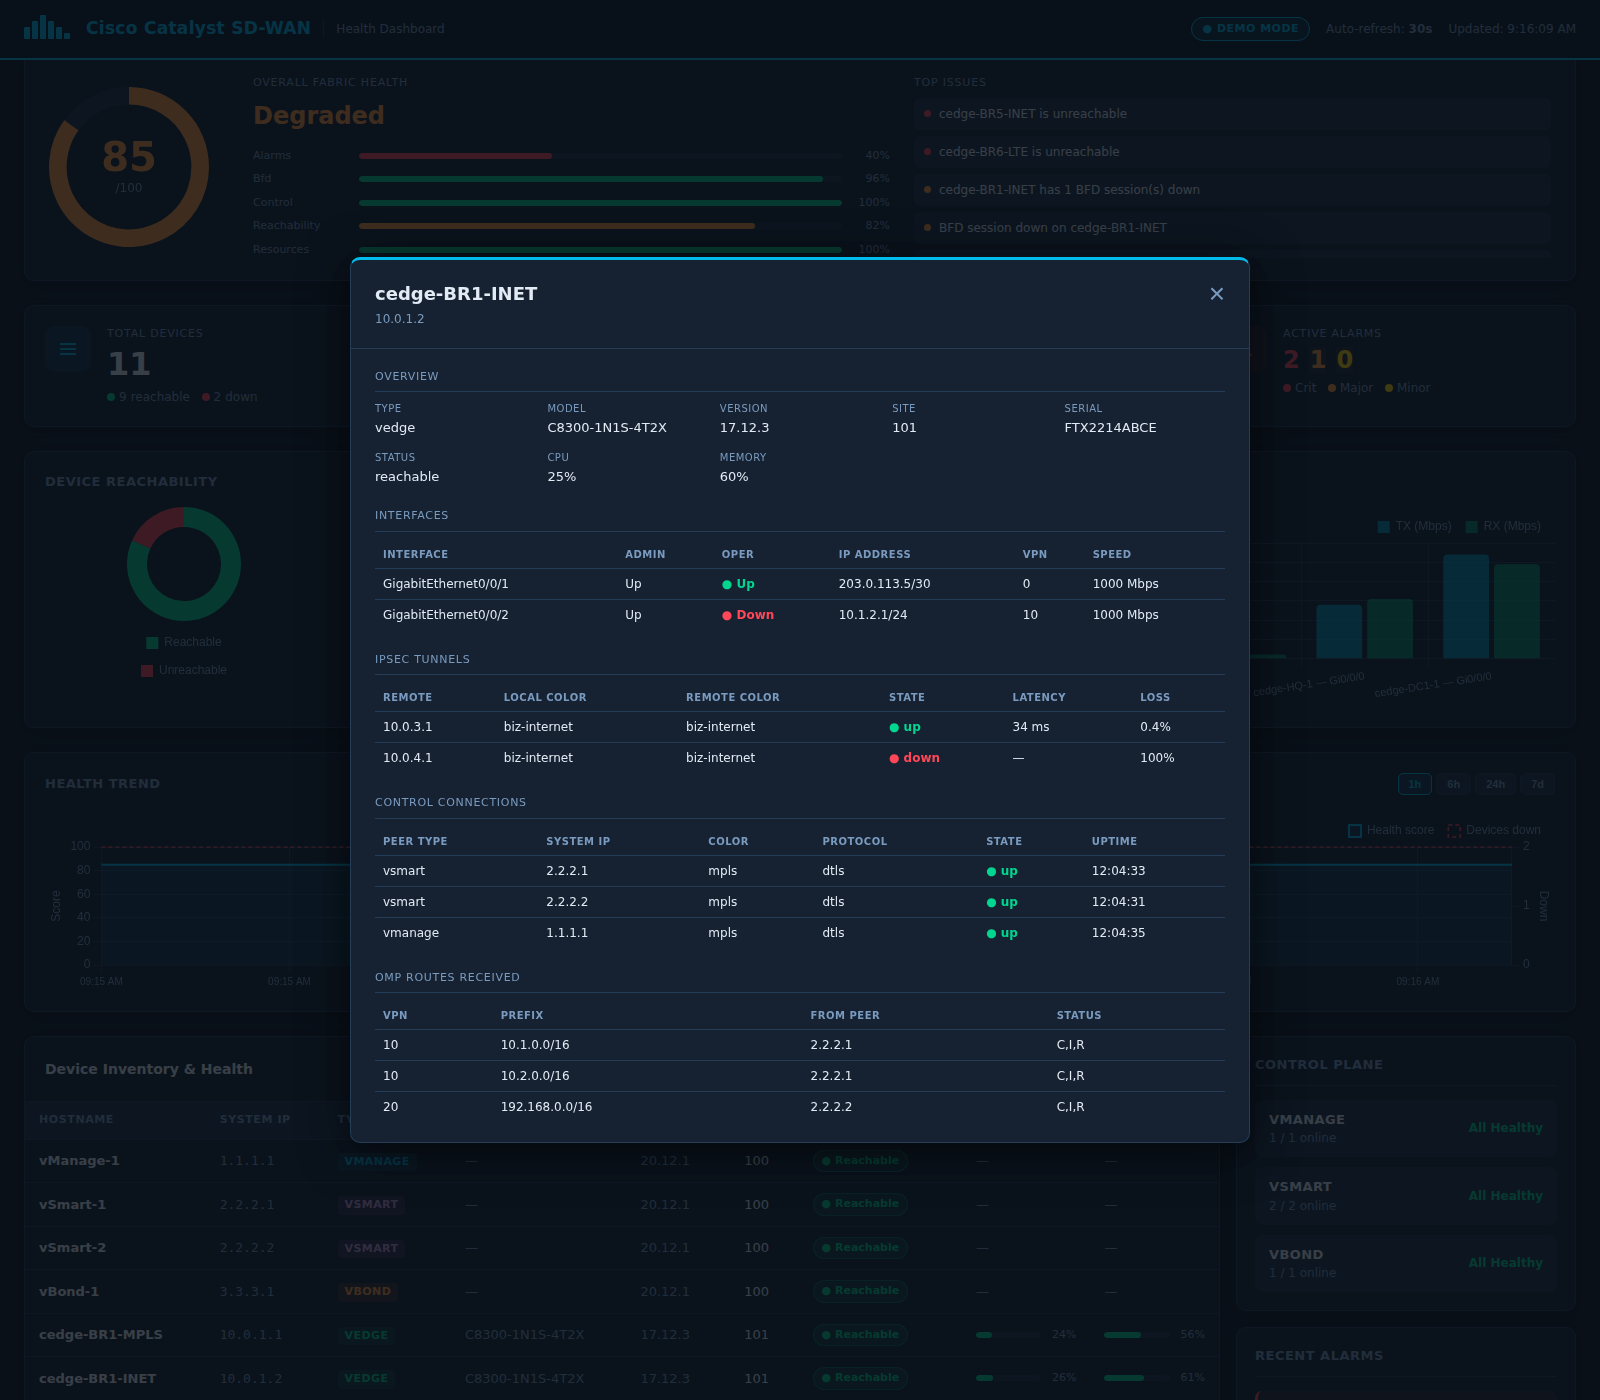
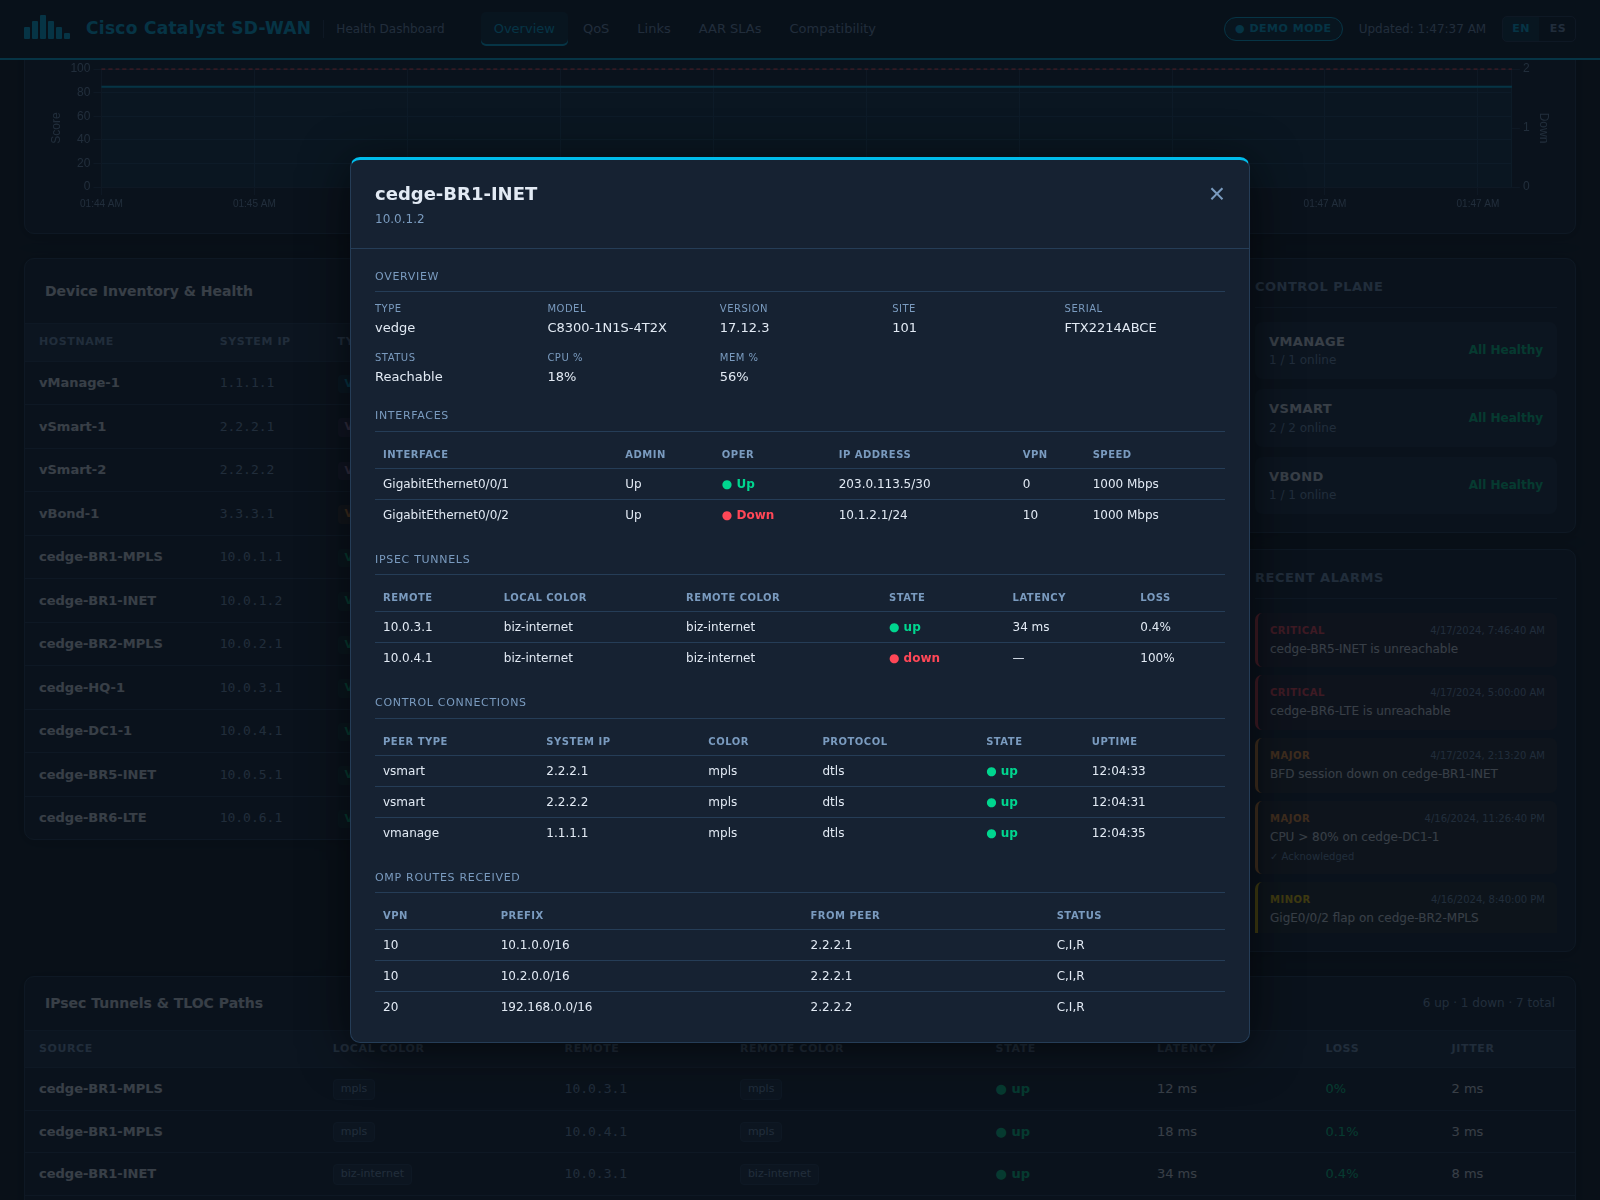
Refresh the screenshots to match what the dashboard now looks like
The two in the repository predated the navigation bar and the three
specialised views, so the README and the landing page were both showing a
product that no longer exists. Replaced, and the specialised views and the
compatibility report now have shots of their own.

Captured in English, the language the dashboard starts in and the one the
README is written in, from a demo fabric with real accumulated history so the
trend chart shows a line rather than a placeholder.

Claude-Session: https://claude.ai/code/session_01DmDxv23J1tsbc5iNbZLJqS

diff --git a/sdwan_dashboard/README.md b/sdwan_dashboard/README.md
@@ -4,7 +4,7 @@ A single-page operations dashboard that answers one question at a glance: **is t
 
 A background poller pulls live state from the vManage REST API — device reachability, BFD and OMP sessions, IPsec tunnels, control-plane status, WAN throughput and alarms — scores it, stores it, and can notify you when it degrades.
 
-![Dashboard](docs/dashboard.png)
+![Overview](docs/overview.png)
 
 ---
 
@@ -56,6 +56,16 @@ SDWAN_MODE=live VMANAGE_HOST=… docker compose up --build   # live
 **Device drill-down** — click any row in the inventory for that device's interfaces, IPsec tunnels, control connections, OMP routes and its own alarms.
 
 ![Device detail](docs/device-detail.png)
+
+### The specialised views
+
+![QoS](docs/qos.png)
+
+![Link utilisation](docs/links.png)
+
+![Application-aware routing](docs/aar.png)
+
+![vManage compatibility](docs/compat.png)
 
 Alongside those: KPI cards, reachability and BFD doughnuts, a WAN throughput chart, a searchable device inventory with CPU/memory bars, control-plane status and a severity-coloured alarm feed.
 
